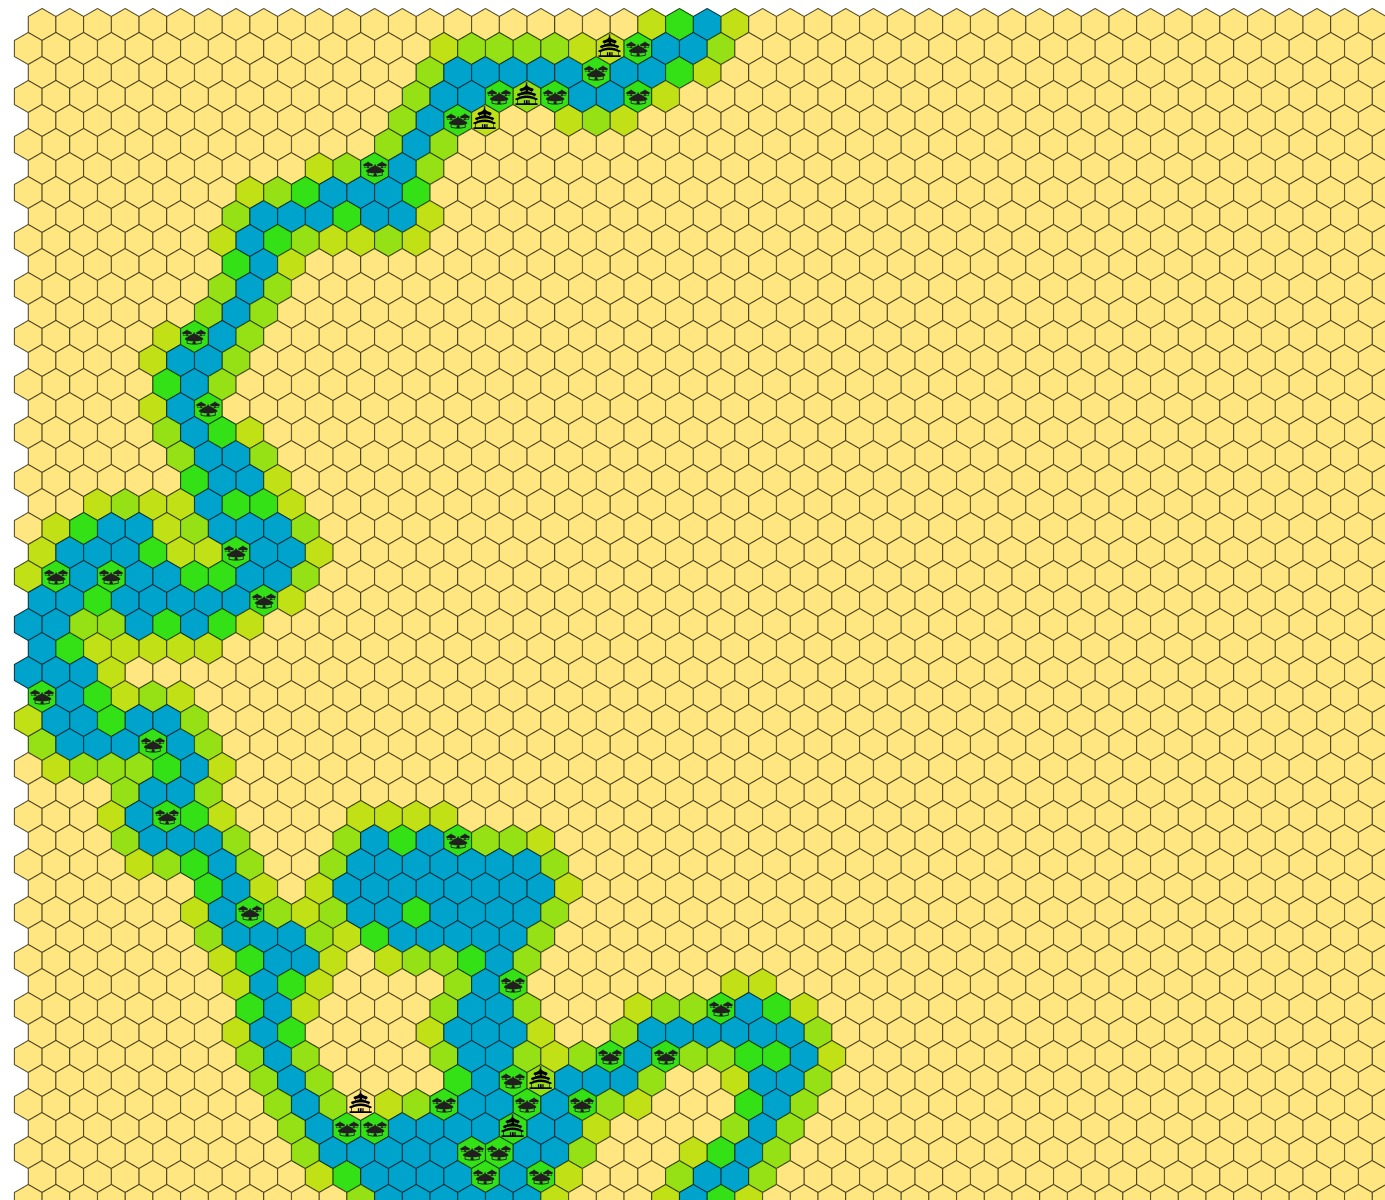
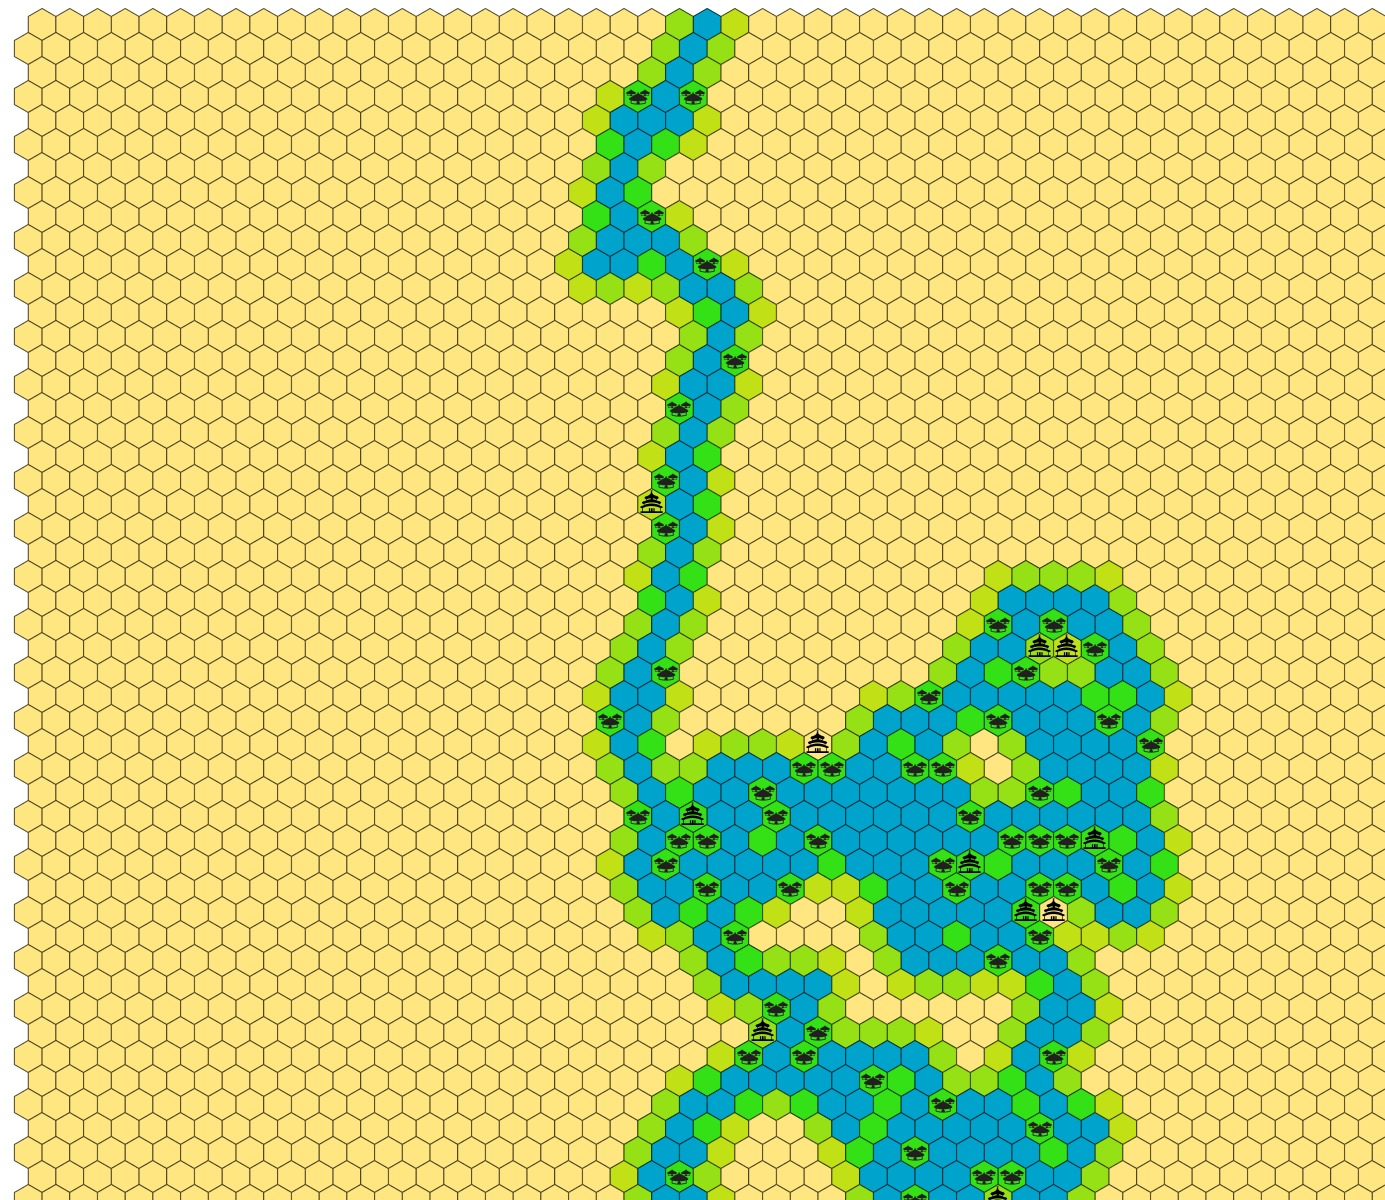
Generates changes.

diff --git a/generate.rb b/generate.rb
@@ -22,10 +22,8 @@ ground.to_pic( 'pics/10_desert.jpg' )
 
 potamos = Potamos.new( ground )
 potamos.generate
-ground.to_pic( 'pics/20_a_river.jpg' )
-
 ground.nature_grow
-ground.to_pic( 'pics/30_nature_grow.jpg' )
+ground.to_pic( 'pics/20_a_river.jpg' )
 
 ground.populate
 ground.to_pic( 'pics/40_dwellings.jpg' )
